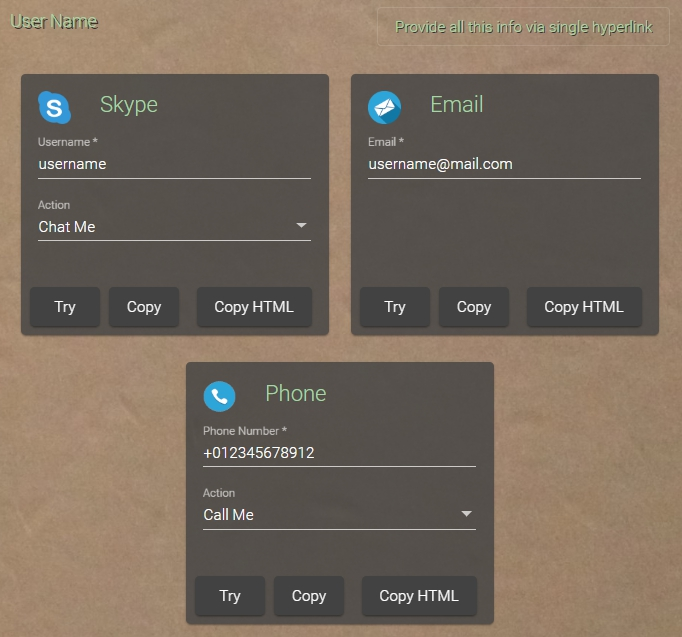
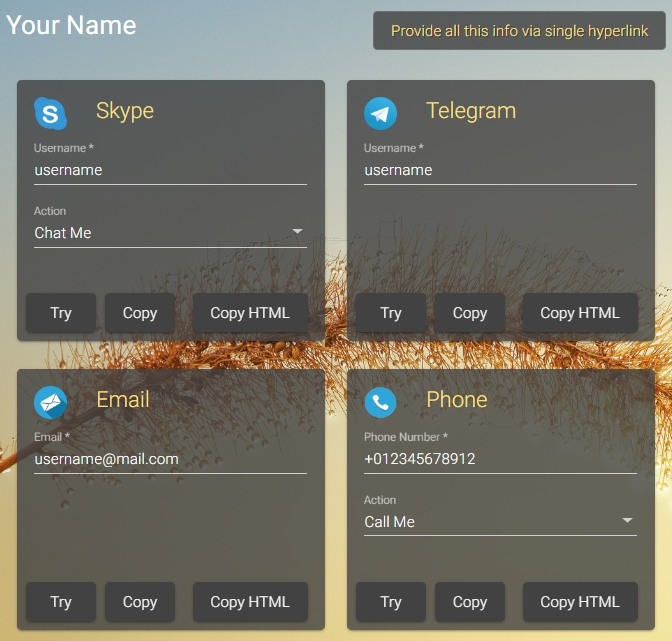
#4 Styles

diff --git a/src/app/create-layout/create-layout.component.ts b/src/app/create-layout/create-layout.component.ts
@@ -1,4 +1,4 @@
-import { Component, OnInit } from '@angular/core';
+import { Component, OnInit, ViewChild, ElementRef } from '@angular/core';
 import { LinkResolverService, Link } from '../link-resolver.service';
 import { Title } from '@angular/platform-browser';
 
@@ -11,15 +11,33 @@ export class CreateLayoutComponent implements OnInit {
 
   name: string;
 
+  @ViewChild('nameInput') nameInput: ElementRef;
+
   constructor(private linkResolver: LinkResolverService, private titleService: Title) { }
 
   ngOnInit() {
     this.titleService.setTitle('Channel\'s links | Answer from me');
     this.name = this.linkResolver.initName();
+    this.checkNameInputClass();
   }
 
-  onChangeName() {
+  onChangeName($event: any) {
     this.linkResolver.name = this.name;
+    this.checkNameInputClass();    
+  }
+
+  private checkNameInputClass():void {
+    [25, 30, 35, 40, 45].forEach( suffix => {
+      this.setClass(this.nameInput.nativeElement, this.name.length, suffix);
+    });    
+  }
+
+  private setClass(target: any, length: number, suffix: number) {
+    if (length >= suffix && length < suffix + 5) {
+      target.classList.add('length' + suffix);
+    } else {
+      target.classList.remove('length' + suffix);
+    }
   }
 
   tryAllLink() {

diff --git a/src/app/create-layout/create-layout.component.html b/src/app/create-layout/create-layout.component.html
@@ -1,11 +1,11 @@
 <site-header></site-header>
 <div class="links">
   <div class="top-links">
-      <input matInput type="text" (keyup)="onChangeName()" placeholder="Type Your Name" [(ngModel)]="name" />
+      <input #nameInput matInput type="text" (keyup)="onChangeName()" placeholder="Type Your Name" [(ngModel)]="name" />
       <div>
         <button mat-stroked-button class="provide-button" [matMenuTriggerFor]="menu">Provide all this info via single hyperlink</button>
         <mat-menu #menu="matMenu" [xPosition]="'before'">
-          <button mat-menu-item (click)="tryAllLink()">Try</button>
+          <button mat-menu-item (click)="tryAllLink()">Preview</button>
           <button mat-menu-item (click)="copyAllLink()">Copy</button>
           <button mat-menu-item (click)="copyHtmlAllLink()">COPY HTML Code</button>
         </mat-menu>

diff --git a/src/app/create-links/create-links.component.html b/src/app/create-links/create-links.component.html
@@ -29,7 +29,7 @@
     </mat-card-content>
 
     <mat-card-actions [hidden]="!link.link || !link.username || (link.formControl && link.formControl.hasError(link.errorType))">
-      <button mat-raised-button (click)="tryLink(link)">Try</button>
+      <button mat-raised-button (click)="tryLink(link)">Preview</button>
       <button mat-raised-button (click)="copyLink(link)">Copy</button>
       <button mat-raised-button (click)="copyHtmlLink(link)">Copy HTML</button>
     </mat-card-actions>

diff --git a/src/app/create-layout/create-layout.component.scss b/src/app/create-layout/create-layout.component.scss
@@ -12,7 +12,28 @@
         // text-shadow: 2px 2px #333030;
     }
 
+    input.length25 {
+        font-size: larger;
+    }
+
+    input.length30 {
+        font-size: large;
+    }
+
+    input.length35 {
+        font-size: medium;
+    }
+
+    input.length40 {
+        font-size: small;
+    }
+
+    input.length45 {
+        font-size: smaller;
+    }
+
     .mat-stroked-button {
         text-shadow: 1px 1px #333030;
     }
 }
+

diff --git a/src/app/help/help.component.scss b/src/app/help/help.component.scss
@@ -17,3 +17,7 @@ mat-panel-title {
 .mat-expansion-panel {
     background: #424242CC;
 }
+
+h1>a, h2, h2+h3 {
+    color: #434343;
+}

diff --git a/src/app/about/about.component.scss b/src/app/about/about.component.scss
@@ -1,3 +1,8 @@
 .mat-chip-list {
     margin: 25px 0;
 }
+
+h1 {
+    color: white;
+    font-weight: 400;
+}

diff --git a/src/app/via/via.component.scss b/src/app/via/via.component.scss
@@ -1,3 +1,4 @@
 h1 {
-    text-shadow: 2px 2px 0px #3F3A3B;
+    color: white;
+    font-weight: 400;
 }
